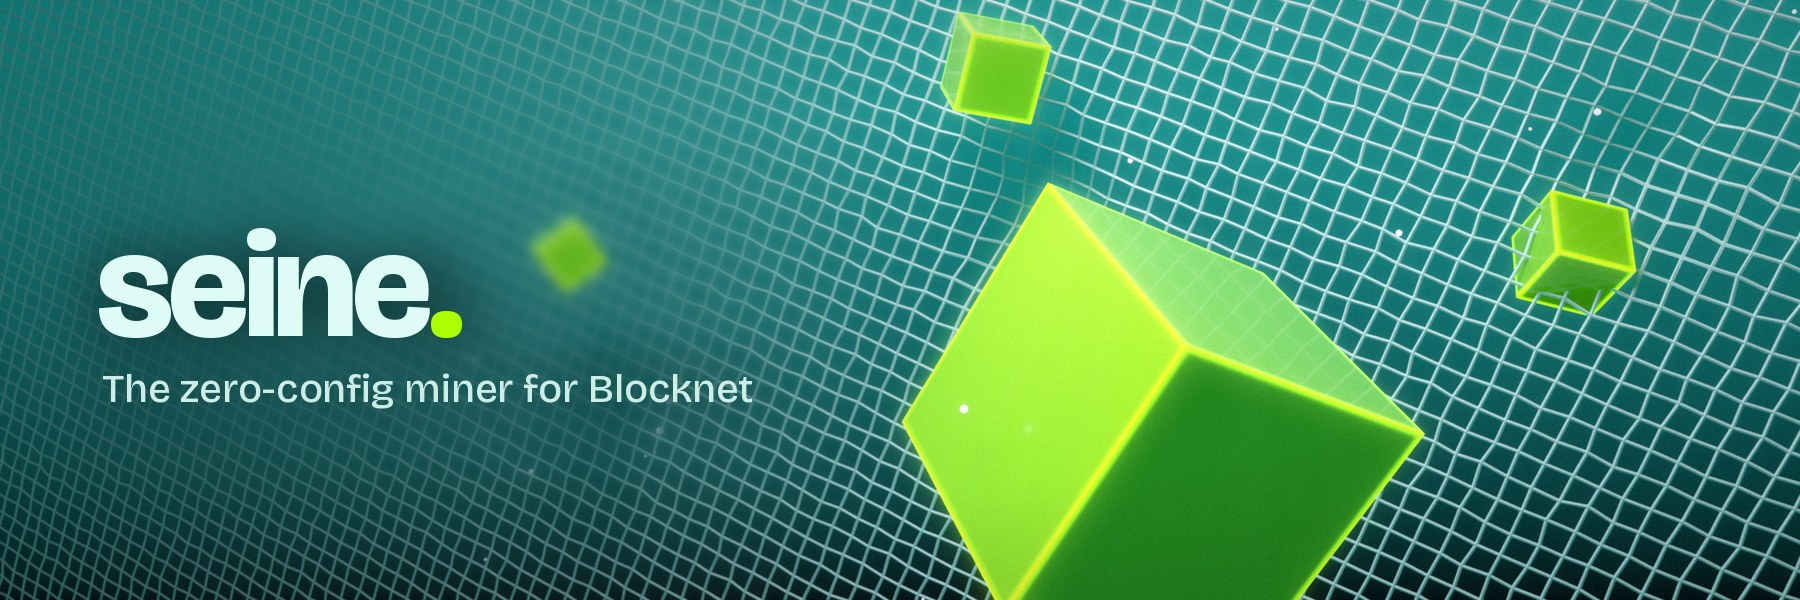
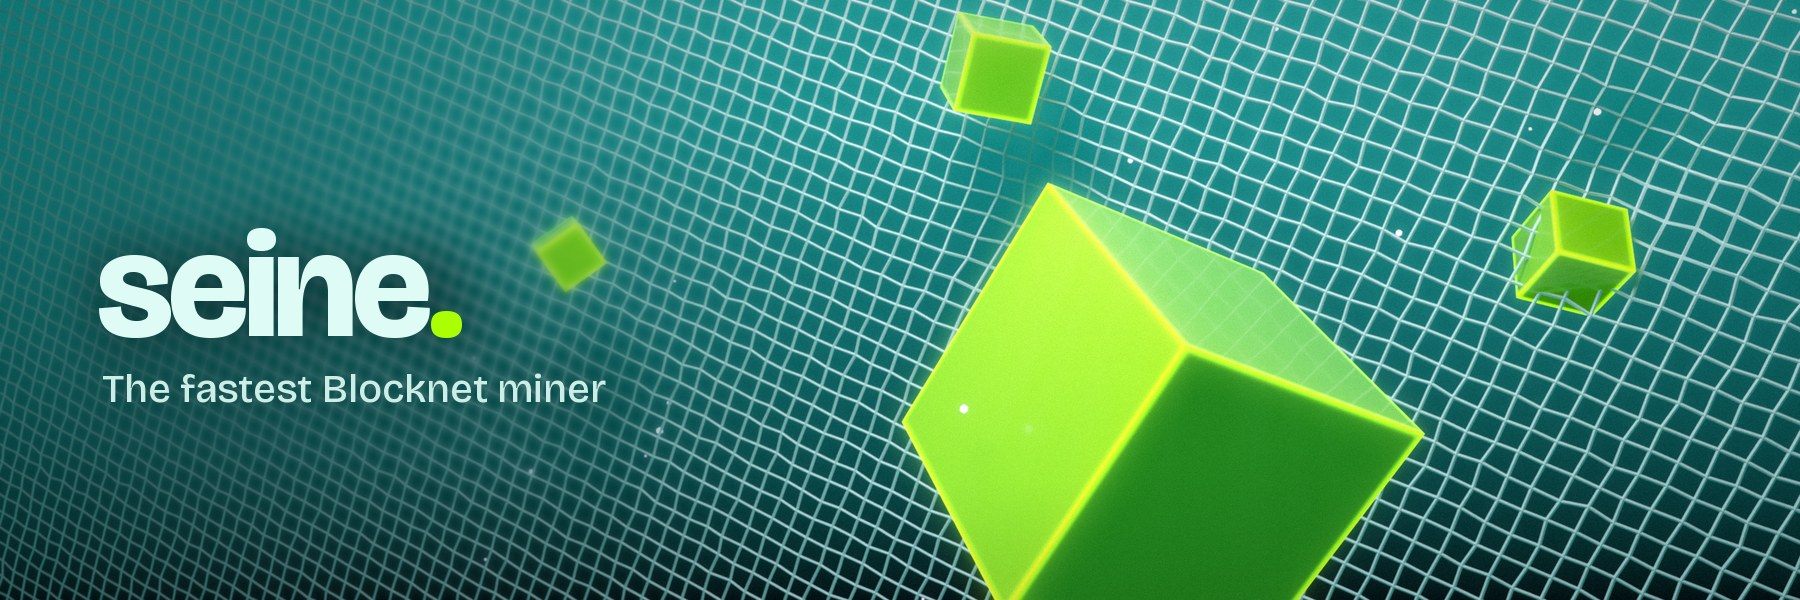
Lead the tagline with performance and soften the type backdrop
Claude-Session: https://claude.ai/code/session_01UtMQfoHicSainM6c1hLXFN

Changed region(s): [[0.0933, 0.0, 0.4978, 0.9]]

diff --git a/scripts/brand/assets.py b/scripts/brand/assets.py
@@ -32,7 +32,7 @@ TEAL = "#1BA3A0"
 FOAM = "#DFFBF6"
 LIME = "#AAFF00"
 LIME_ON_LIGHT = "#4E9A00"
-TAGLINE = "The zero-config miner for Blocknet"
+TAGLINE = "The fastest Blocknet miner"
 
 
 def text_path(font, text, x, y, size, tracking=0.0):
@@ -81,7 +81,7 @@ def overlay_text(img, font_bold, font_text, x, y, size, tagline_size, shadow=Tru
     x0, y0 = int(x - pad), int(y - pad * 0.55)
     x1, y1 = int(x + max(word_w + size * 0.6, tag_w) + pad), int(y + size * 1.12 + tagline_size * 1.6 + pad * 0.7)
     y0, y1 = int(y0 - size * up), int(y1 + size * down)
-    blurred = img.filter(ImageFilter.GaussianBlur(size * 0.04))
+    blurred = img.filter(ImageFilter.GaussianBlur(size * 0.025))
     tint = Image.new("RGBA", img.size, (2, 26, 30, 44))
     frosted = Image.alpha_composite(blurred, tint)
     mask = Image.new("L", img.size, 0)

diff --git a/README.md b/README.md
@@ -1,10 +1,10 @@
 <p align="center">
-  <img src="docs/assets/brand/banner.jpg" alt="seine — the zero-config miner for Blocknet" width="900">
+  <img src="docs/assets/brand/banner.jpg" alt="seine — the fastest Blocknet miner" width="900">
 </p>
 
 <p align="center">
-  <b>Fast, zero-config mining for <a href="https://blocknetcrypto.com">Blocknet</a>.</b><br>
-  Tuned kernels for every modern CPU and NVIDIA GPU. Download, run, mine.
+  <b>The fastest miner for <a href="https://blocknetcrypto.com">Blocknet</a>.</b><br>
+  Tuned kernels for every modern CPU and NVIDIA GPU, zero configuration. Download, run, mine.
 </p>
 
 <p align="center">
